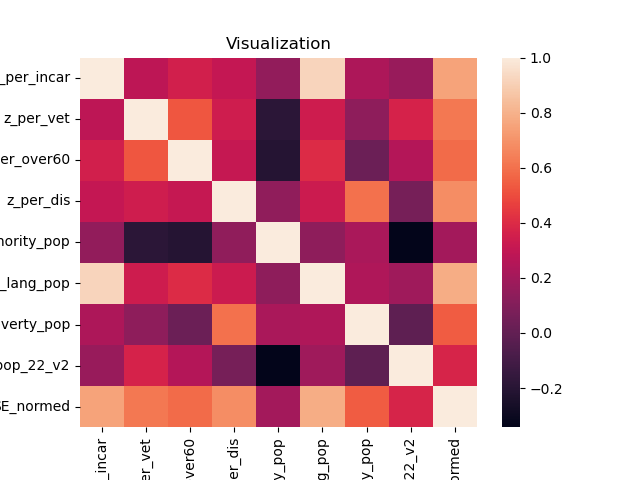
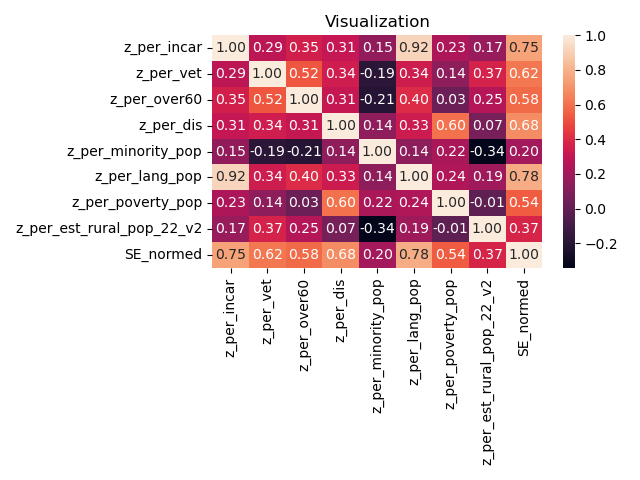
corr heatmap updated

diff --git a/src/SE_analysis.py b/src/SE_analysis.py
@@ -65,8 +65,9 @@ df_num = df_se[['z_per_incar', 'z_per_vet', 'z_per_over60', 'z_per_dis', 'z_per_
 corr = df_num.corr()
 print('Correlation:\n', corr)
 
-sns.heatmap(corr)
+sns.heatmap(corr, annot=True, fmt='.2f',)
 plt.title('Visualization')
+plt.tight_layout()
 plt.savefig('figs/corr.png')
 plt.show()
 
